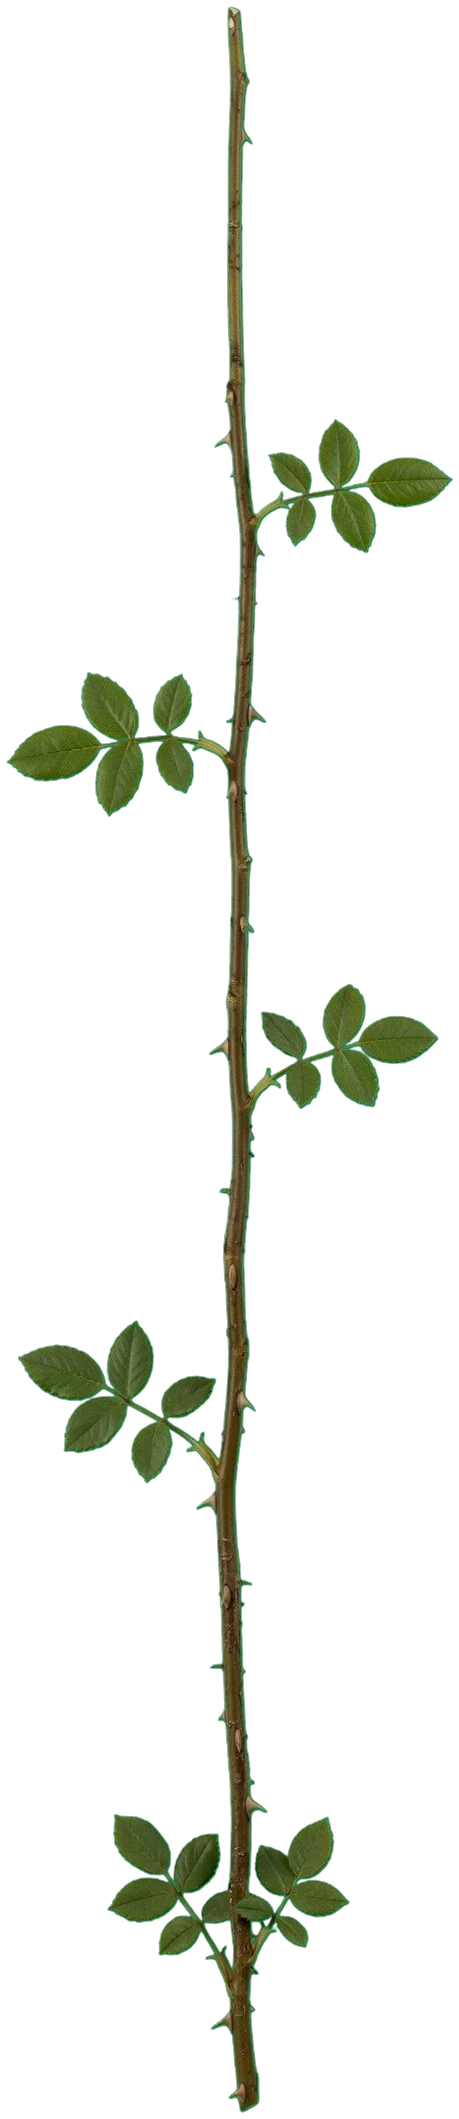
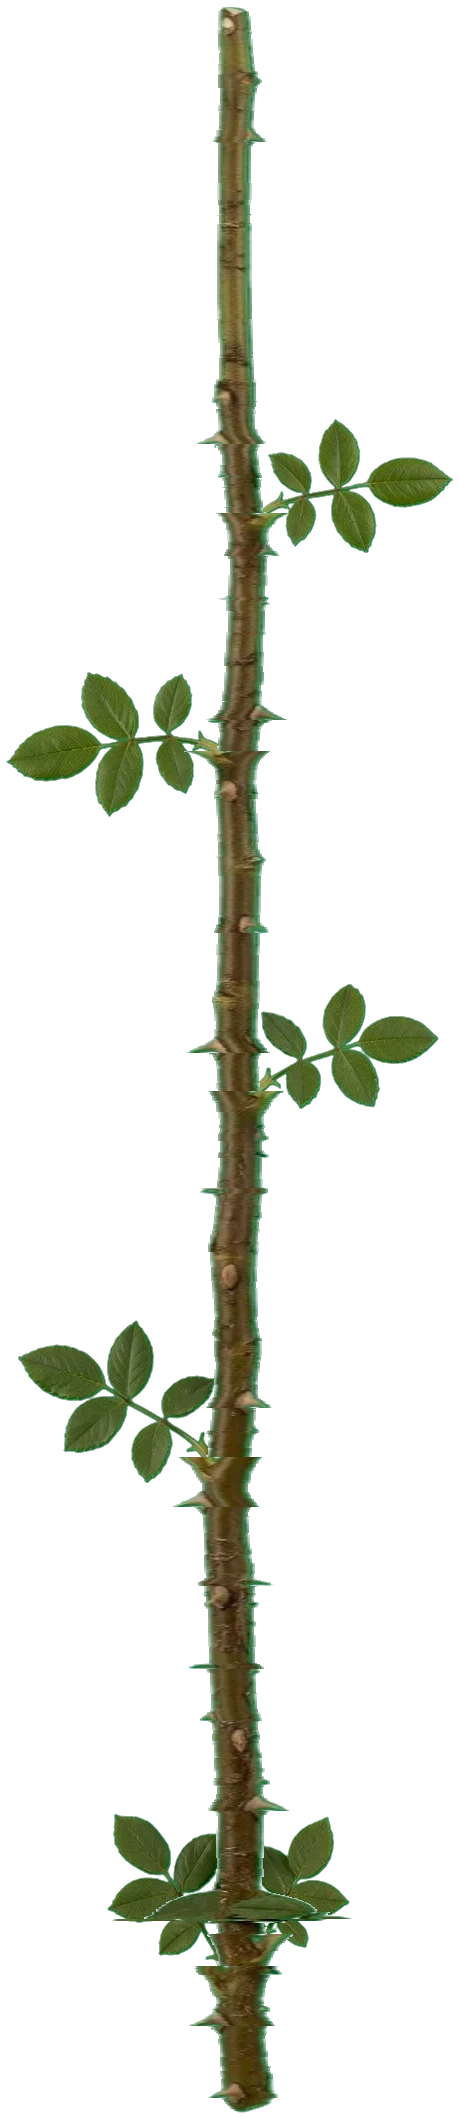
Add files via upload

Changed region(s): [[0.366, 0.0, 0.671, 0.9967]]

diff --git a/index.html b/index.html
@@ -463,7 +463,7 @@ const clamp = (v,a,b)=>Math.max(a,Math.min(b,v));
 const lerp = (a,b,t)=>a+(b-a)*t;
 const easeOut = t => 1 - Math.pow(1 - t, 3);
 const imgCache = {};
-const ASSET_V = 'v78'; /* 素材のキャッシュ対策: 版を上げるたびに全素材を一度だけ取り直させる */
+const ASSET_V = 'v79'; /* 素材のキャッシュ対策: 版を上げるたびに全素材を一度だけ取り直させる */
 /* v78 更新チェック: サーバー上の version.json と自分の版を比べ、新しい版が
    出ていればトップページ最下部に静かに知らせる。読み直しはキャッシュ回避の
    クエリ付きで行う（iPhoneのホーム画面アプリは再読み込みボタンが無く、
@@ -2323,7 +2323,7 @@ function committeeStandalone(an){
   if (fents.length > 1 && fents[0][1] <= fents[1][1]) return null;
   const wk = fents[0][0];
   const ev = eventEvidenceW(an);
-  if ((ev.perKey[wk] || 0) < 0.70) return null; /* v77: hedge tightened */
+  if ((ev.perKey[wk] || 0) < 0.75) return null; /* v79: hedge line 0.70->0.75 (『さくら』を『春よ、来い』と誤る対策) */
   if (ev.decoyW > (ev.perKey[wk] || 0)) return null;
   const song = EVENT_SONGS.find(s => s.key === wk);
   const sp = song ? SPECIES.find(s => s.id === song.sp) : null;
@@ -2334,7 +2334,7 @@ function bandStandalone(an){
   const ents = Object.entries(ev.perKey).sort((a, b) => b[1] - a[1]);
   if (!ents.length) return null;
   const wk = ents[0][0], top = ents[0][1];
-  if (top < 0.70) return null; /* v77: hedge tightened */
+  if (top < 0.75) return null; /* v79: hedge line 0.70->0.75 */
   if (ents.length > 1 && top - ents[1][1] < 0.05) return null;
   if (ev.decoyW > top) return null;
   const song = EVENT_SONGS.find(s => s.key === wk);
@@ -2347,7 +2347,7 @@ function bandStandalone(an){
    発火条件は実測（ev72、Dev 120テイク）で決めた素の形: 署名スコア ≥0.90 かつ
    その曲の全体スコア ≥0.65。マージンや囮の追加条件は実測で差が出なかったため
    置かない。実測: 正解 hedge +6（計 59/120）、誤名 +0、非対象 hedge +5 */
-const EV_SIG_LEN = 12, EV_SIG_MIN = 0.90, EV_SIG_WHOLE_MIN = 0.70; /* v77: hedge tightened (whole 0.65->0.70) */
+const EV_SIG_LEN = 12, EV_SIG_MIN = 0.90, EV_SIG_WHOLE_MIN = 0.75; /* v79: hedge line 0.70->0.75 */
 function signatureStandalone(an){
   const rawNotes = [];
   for (const g of (an.phrases || [])) for (const n of (g.notes || [])) if (n.midi > 0) rawNotes.push({ midi: Math.round(n.midi), start: n.start || 0 });
@@ -2628,7 +2628,7 @@ function buildStock(group, sp, color, rootX, groundY, seedStr, volScale, feat, s
       const p = phrases[Math.min(i, phrases.length - 1)];
       const c = n === 1 ? 0 : (i / (n - 1)) * 2 - 1;
       stock.stems.push({
-        rot: c * (sp.tall3 ? 5 : 21) + (r() * 6 - 3), flip: r() < 0.5, ind: i % 2 === 0 ? 'full' : 'fullb',
+        rot: sp.id === 'sakura2' ? 0 : c * (sp.tall3 ? 5 : 21) + (r() * 6 - 3), flip: sp.id === 'sakura2' ? false : r() < 0.5, ind: i % 2 === 0 ? 'full' : 'fullb', /* v79: さくらの木は傾き・反転くじなし（先生の承認した絵のまま出す） */
         headH: clamp(140 + p.durSec * 12, 150, 212) * sf * volScale * 0.8 * flowerCurve(R) * [1, 0.85, 0.94, 0.79, 0.9, 0.83][i % 6] * (0.95 + r() * 0.1) * (sp.tall3 ? 1.42 : 1) * SS,
         birth: p.start, hueJ: (r() * 10 - 5), satJ: (r() * 0.1 - 0.05), lightJ: (r() * 0.12 - 0.06), headPos: null,
       });
@@ -2643,7 +2643,7 @@ function buildStock(group, sp, color, rootX, groundY, seedStr, volScale, feat, s
           if (!fa || !fa.hb) continue;
           /* v37: 配置の見積もりを実際の描画式（満開時）に一致させる（従来は描画より小さく見積もっていた） */
           let imgH = Math.max(st.headH / Math.max(0.12, fa.hb[1]), st.headH * 2.6) * 1.45;
-          const maxW2 = W * 0.58; if (imgH * fa.w / fa.h > maxW2) imgH = maxW2 * fa.h / fa.w;
+          const maxW2 = W * (sp.id === 'sakura2' ? 0.75 : 0.58); if (imgH * fa.w / fa.h > maxW2) imgH = maxW2 * fa.h / fa.w; /* v79: さくらは幅上限を広げる */
           if (fa.root && fa.head){ const needF2 = (fa.root[1] - fa.head[1]) + fa.hb[1] * 0.5; if (needF2 > 0.2) imgH = Math.min(imgH, (groundY - 26) / needF2); }
           if (sp.id === 'lantern') imgH = Math.min(imgH, 760);
           const th = st.rot * Math.PI / 180;
@@ -2962,7 +2962,11 @@ function drawComposite(x, stock, progOf, now){
      左右合わせて約3px太らせる（満開時の軸 約6.5px → 約9.5px）。当初案の「同系色の芯を
      直線で敷く」方式は、茶色い茎に緑の帯が浮いて描き足し感が強かったため検証で不採用にし、
      同じ画像をずらして重ねる方式に替えた */
-  const stemBold = (sp.stemFam === 'rose' || sp.stemFam === 'dahlia') ? (dh) => clamp(dh * 0.0022, 0.8, 1.6) : null;
+  /* v79: 茎の太さの見直し（先生の決定）。バラ系は茎・枝の絵そのものを描き直したので、ここの補強はしない。
+     ユリ系（ユリ・水晶の花・チューリリー）とマーガレットは対象外。それ以外の茎の仲間は、実測で軸が約2割太くなる
+     倍率を茎の種類ごとに持つ。開発室の花も、受け継いだ茎の種類で同じように効く */
+  const STEM_BOLD_MUL = { dahlia: 1.92, gerbera: 3.42, sunflower: 1.61, carnation: 1.39, anemone: 1.11, cherry: 1.80, iris: 1.55 };
+  const stemBold = (STEM_BOLD_MUL[sp.stemFam] && sp.id !== 'marguerite') ? (dh) => clamp(dh * 0.0022, 0.8, 1.6) * STEM_BOLD_MUL[sp.stemFam] : null;
   /* 枝（主茎より先に描き、付け根を主茎で隠す） */
   const tips = [{ st: stock.stems[0], idx: 0, rot: sway * 0.3, pos: null }];
   for (const br of plan.branches){
@@ -3060,7 +3064,7 @@ function drawStock(x, stock, progOf, now, opts){
     let imgH = st.headH * scaleF / Math.max(0.12, fullHb);
     if (sp.cluster) imgH = Math.max(imgH, st.headH * 2.6) * 1.45; /* 穂型は株全体で見せる（小さくなりすぎないよう引き上げ） */
     const fa = ANCH[fullName0];
-    if (fa && fa.w > 0){ const maxW = W * 0.58; if (imgH * fa.w / fa.h > maxW) imgH = maxW * fa.h / fa.w; }
+    if (fa && fa.w > 0){ const maxW = W * (sp.id === 'sakura2' ? 0.75 : 0.58); if (imgH * fa.w / fa.h > maxW) imgH = maxW * fa.h / fa.w; } /* v79: さくらは幅上限0.75 */
     /* 背の高い株（頭の位置が上の方にある素材）は、頭のてっぺんが画面外へ出ないよう imgH を上限する */
     if (fa && fa.root && fa.head && fa.hb){
       const needF = (fa.root[1] - fa.head[1]) + fa.hb[1] * 0.5;
